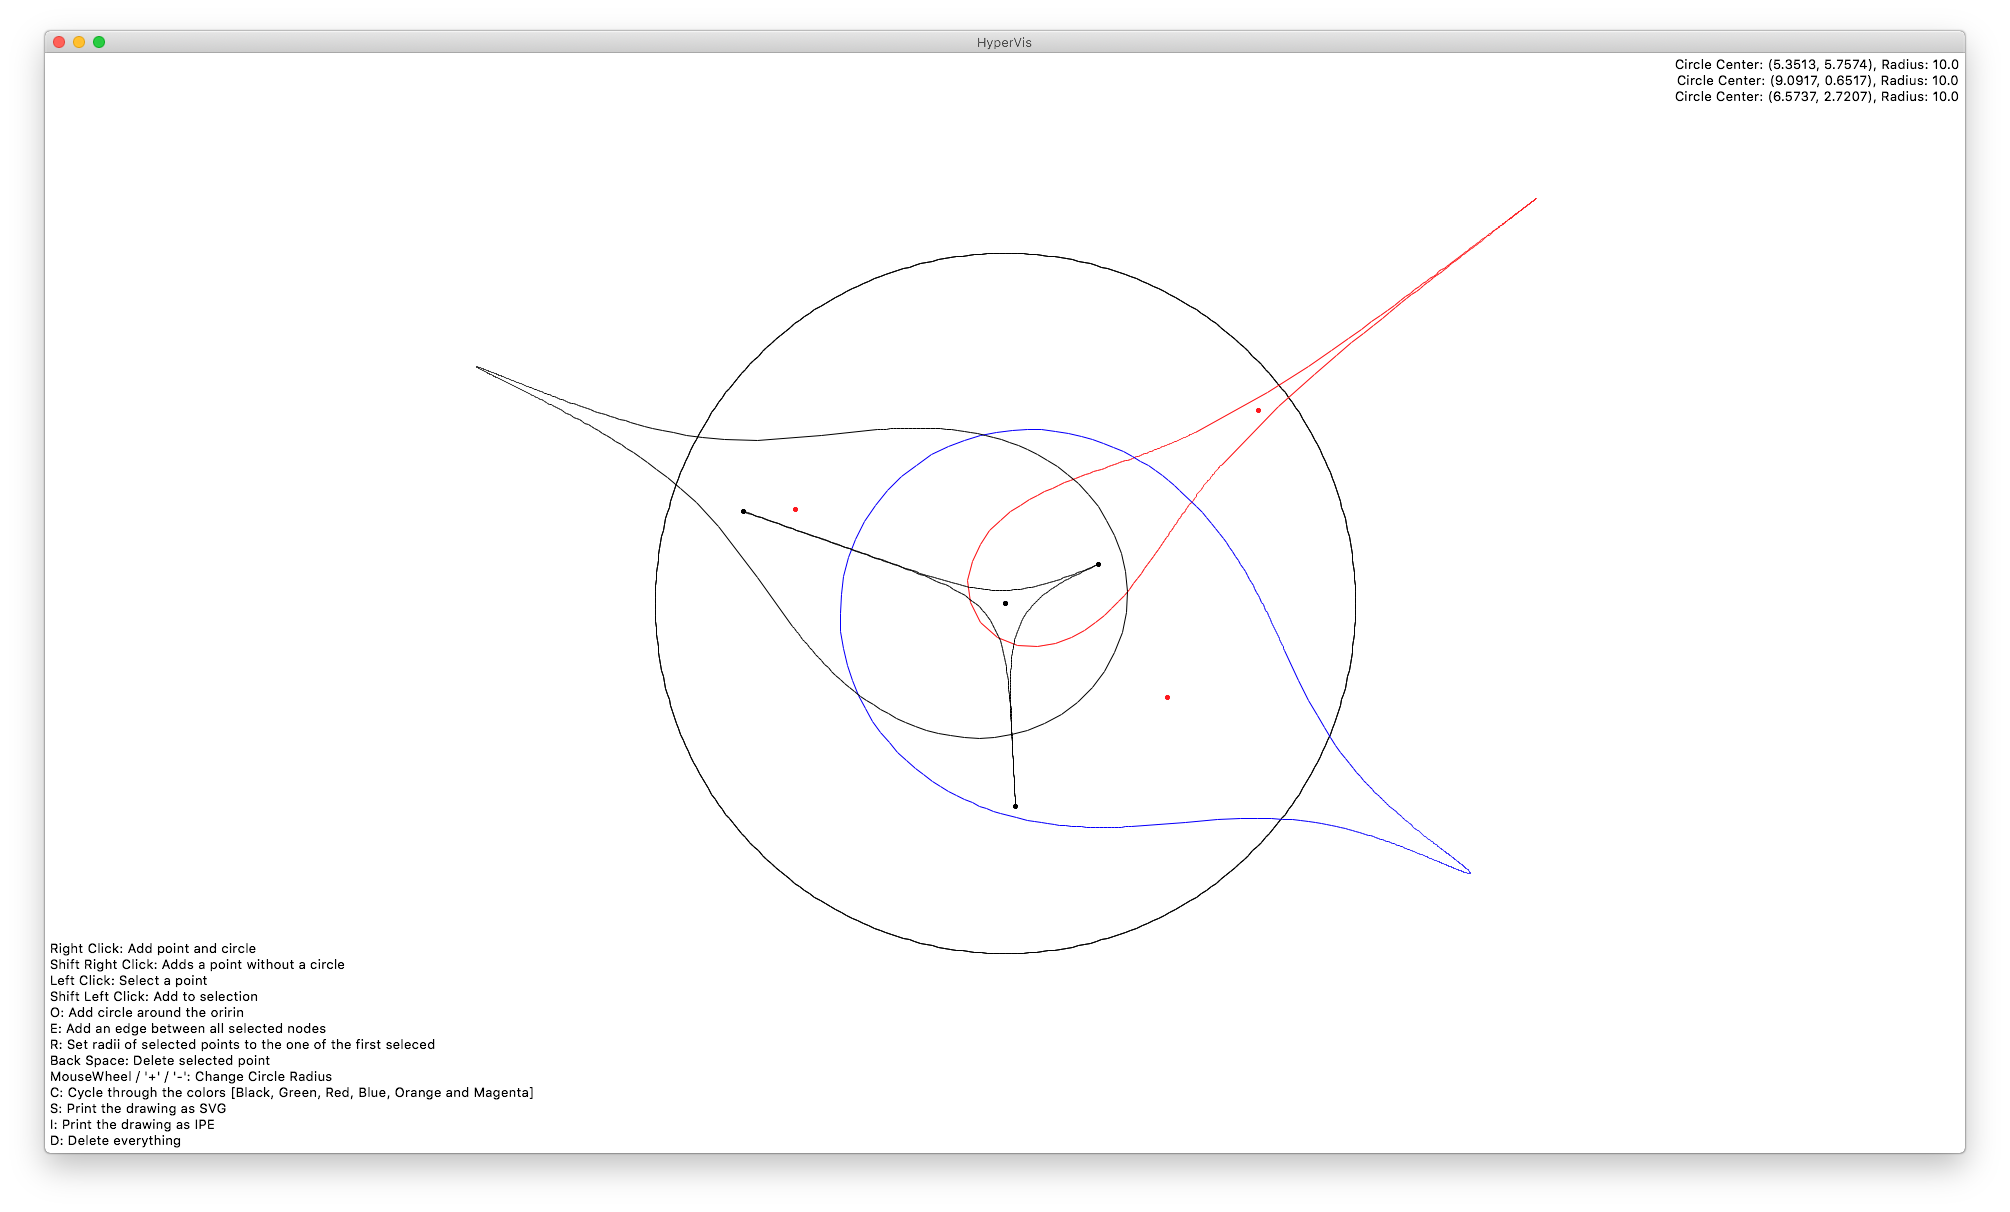
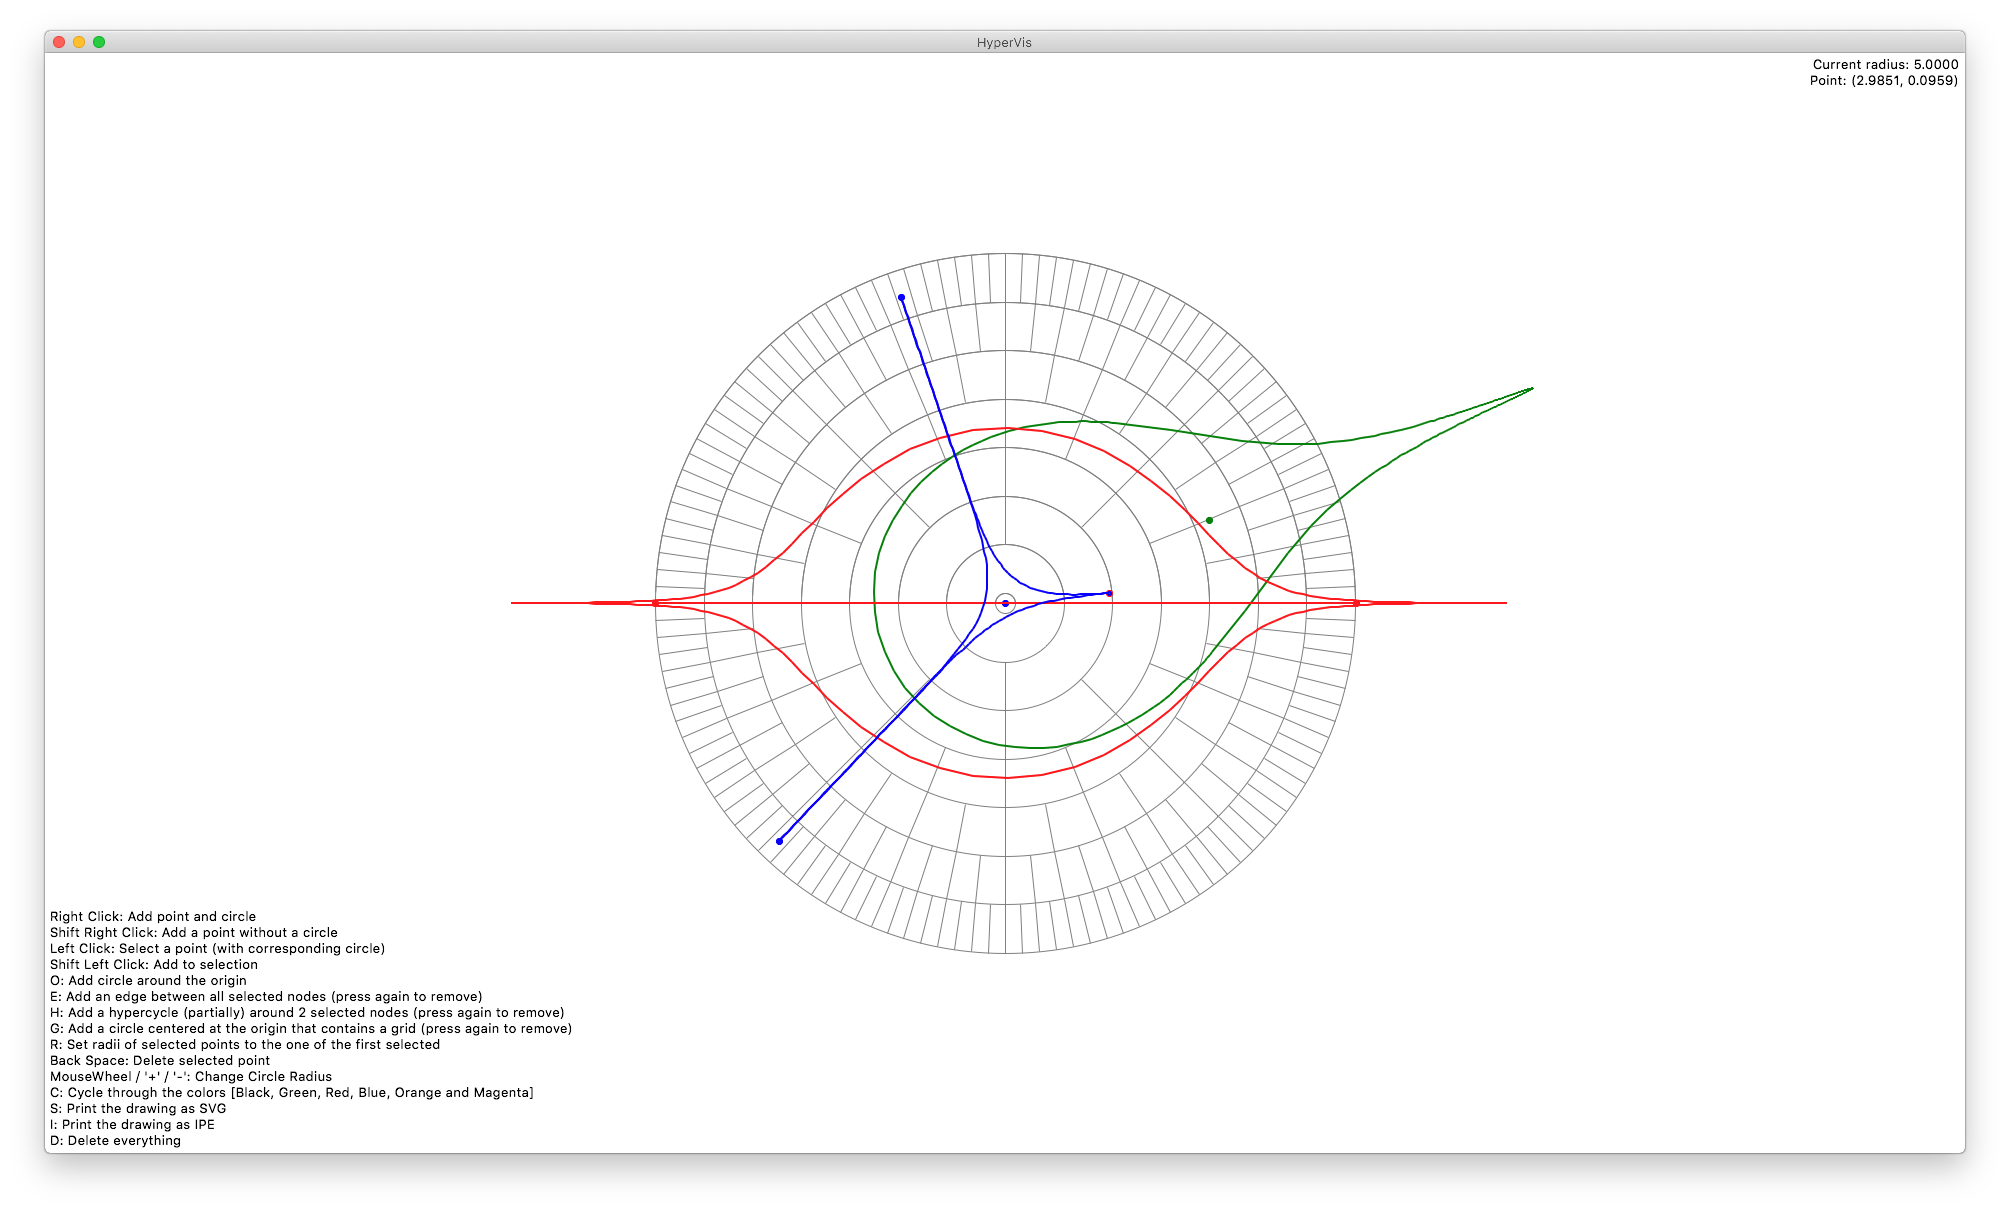
Updated screenshot. Fixed deletion issue. Fixed issue with grid.
- the way the number of layers in the grid is determined is more robust now
- when pressing 'd' the grid is now deleted as well

diff --git a/drawing.py b/drawing.py
@@ -85,9 +85,9 @@ class drawer:
         # Drawing the grid
         if self.grid_radius > 0:
             grid_color = "gray"
-            number_of_layers = math.ceil(math.log(math.exp(self.grid_radius / 2.0), 2.0))
-            alpha = 0.5
+            alpha = 0.75
             layer_width = math.log(2) / alpha
+            number_of_layers = math.floor(self.grid_radius / layer_width)
 
             # Drawing the layers
             for layer in range(number_of_layers):

diff --git a/HyperVis.py b/HyperVis.py
@@ -307,6 +307,7 @@ def d_pressed(event):
     edges = []
     selected_nodes = []
     current_circle_size = 10.0
+    drawer.grid_radius = 0.0
 
     set_status_label_text("Cleared")
     redraw()
